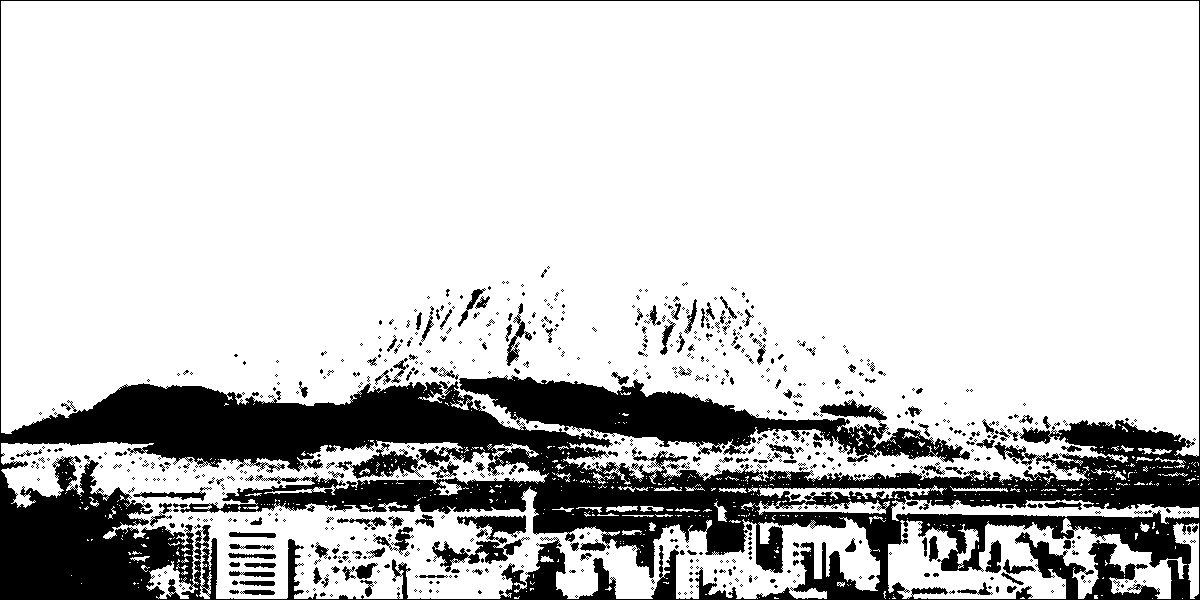
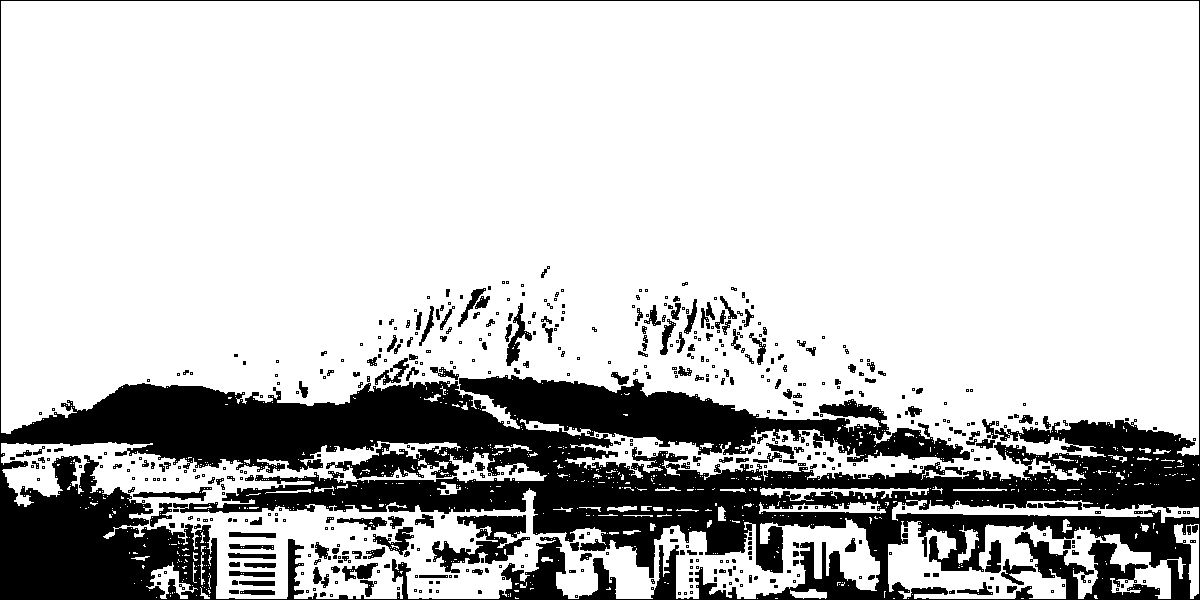
add

diff --git a/11/openingclosing.py b/11/openingclosing.py
@@ -3,20 +3,21 @@ import numpy as np
 
 #縮小
 def erosion(img):
-    #４近傍が0の場合に0に、それ以外は1にする
+    #8近傍が0の場合に0に、それ以外は1にする
     h, w = img.shape
     out = np.zeros((h, w), dtype=float)
     for y in range(1, h-1):
         for x in range(1, w-1):
-            if img[y-1, x] == 0 or img[y, x-1] == 0 or img[y, x+1] == 0 or img[y+1, x] == 0:
+            if img[y-1, x] == 0 or img[y, x-1] == 0 or img[y, x+1] == 0 or img[y+1, x] == 0 or img[y-1, x-1] == 0 or img[y-1, x+1] == 0 or img[y+1, x-1] == 0 or img[y+1, x+1] == 0:
                 out[y, x] = 0
             else:
                 out[y, x] = 1
     return out
 
+
 #膨張
 def dilation(img):
-    #４近傍が1の場合に1に、それ以外は0にする
+    #4近傍が1の場合に1に、それ以外は0にする
     h, w = img.shape
     out = np.zeros((h, w), dtype=float)
     for y in range(1, h-1):
@@ -26,6 +27,7 @@ def dilation(img):
             else:
                 out[y, x] = 0
     return out
+
 
 #開放処理(opening)
 def opening(img):
@@ -43,7 +45,7 @@ def closing(img):
 
 
 # 画像を読み込む
-img = cv2.imread("sakurajima.jpeg")
+img = cv2.imread("sample01.png")
 
 #画像の２値化
 gray = cv2.cvtColor(img, cv2.COLOR_BGR2GRAY)

diff --git a/11/erosiondilation.py b/11/erosiondilation.py
@@ -3,12 +3,12 @@ import numpy as np
 
 #縮小
 def erosion(img):
-    #４近傍が0の場合に0に、それ以外は1にする
+    #8近傍が0の場合に0に、それ以外は1にする
     h, w = img.shape
     out = np.zeros((h, w), dtype=float)
     for y in range(1, h-1):
         for x in range(1, w-1):
-            if img[y-1, x] == 0 or img[y, x-1] == 0 or img[y, x+1] == 0 or img[y+1, x] == 0:
+            if img[y-1, x] == 0 or img[y, x-1] == 0 or img[y, x+1] == 0 or img[y+1, x] == 0 or img[y-1, x-1] == 0 or img[y-1, x+1] == 0 or img[y+1, x-1] == 0 or img[y+1, x+1] == 0:
                 out[y, x] = 0
             else:
                 out[y, x] = 1
@@ -16,7 +16,7 @@ def erosion(img):
 
 #膨張
 def dilation(img):
-    #４近傍が1の場合に1に、それ以外は0にする
+    #4近傍が1の場合に1に、それ以外は0にする
     h, w = img.shape
     out = np.zeros((h, w), dtype=float)
     for y in range(1, h-1):
@@ -26,6 +26,8 @@ def dilation(img):
             else:
                 out[y, x] = 0
     return out
+
+
 
 
 # 画像を読み込む

diff --git a/11/11_sample04.py b/11/11_sample04.py
@@ -1,0 +1,38 @@
+
+# -*- coding: utf-8 -*-
+
+''' 
+
+'''
+
+import numpy as np
+import cv2
+
+  
+# メイン関数
+def main():
+    # 画像を読み込む
+    img = cv2.imread('sample01.png',0)
+    rows, cols = img.shape
+ 
+    th, bin_image = cv2.threshold(img, 0, 255, cv2.THRESH_BINARY+cv2.THRESH_OTSU)
+    rows, cols = bin_image.shape
+
+    kernel = np.ones((5,5),np.uint8)
+    dilation = cv2.dilate(bin_image,kernel,iterations = 1)
+    closing = cv2.erode(dilation,kernel,iterations = 1)
+    
+    cv2.namedWindow("original_image")   
+    cv2.namedWindow("binary_image")   
+    
+    cv2.namedWindow("closing")   
+
+    cv2.imshow("original_image", img)
+    cv2.imshow("binary_image", bin_image)
+    cv2.imshow("closing", closing)
+
+    cv2.waitKey(0)
+    cv2.destroyAllWindows()
+
+if __name__ == "__main__":
+    main()

diff --git a/11/11_sample03.py b/11/11_sample03.py
@@ -1,0 +1,38 @@
+
+# -*- coding: utf-8 -*-
+
+''' 
+
+'''
+
+import numpy as np
+import cv2
+
+  
+# メイン関数
+def main():
+    # 画像を読み込む
+    img = cv2.imread('sample01.png',0)
+    rows, cols = img.shape
+ 
+    th, bin_image = cv2.threshold(img, 0, 255, cv2.THRESH_BINARY+cv2.THRESH_OTSU)
+    rows, cols = bin_image.shape
+
+    kernel = np.ones((5,5),np.uint8)
+    erosion = cv2.erode(bin_image,kernel,iterations = 1)
+    opening = cv2.dilate(erosion,kernel,iterations = 1)
+    
+    cv2.namedWindow("original_image")   
+    cv2.namedWindow("binary_image")   
+    
+    cv2.namedWindow("opening")   
+
+    cv2.imshow("original_image", img)
+    cv2.imshow("binary_image", bin_image)
+    cv2.imshow("opening", opening)
+
+    cv2.waitKey(0)
+    cv2.destroyAllWindows()
+
+if __name__ == "__main__":
+    main()

diff --git a/11/11_sample02.py b/11/11_sample02.py
@@ -1,0 +1,38 @@
+
+# -*- coding: utf-8 -*-
+
+''' 
+
+'''
+
+import numpy as np
+import cv2
+
+  
+# メイン関数
+def main():
+    # 画像を読み込む
+    img = cv2.imread('sakurajima.jpeg',0)
+    # rows, cols = img.shape
+ 
+    th, bin_image = cv2.threshold(img, 0, 255, cv2.THRESH_BINARY+cv2.THRESH_OTSU)
+    # rows, cols = bin_image.shape
+    # bin_image = 255-bin_image
+    
+    kernel = np.ones((5,5),np.uint8)
+    dilation = cv2.dilate(bin_image,kernel,iterations = 1)
+    
+    cv2.namedWindow("original_image")   
+    cv2.namedWindow("binary_image")   
+    
+    cv2.namedWindow("dilation")   
+
+    cv2.imshow("original_image", img)
+    cv2.imshow("binary_image", bin_image)
+    cv2.imshow("dilation", dilation)
+
+    cv2.waitKey(0)
+    cv2.destroyAllWindows()
+
+if __name__ == "__main__":
+    main()

diff --git a/11/11_sample01.py b/11/11_sample01.py
@@ -1,0 +1,37 @@
+
+# -*- coding: utf-8 -*-
+
+''' 
+
+'''
+
+import numpy as np
+import cv2
+
+  
+# メイン関数
+def main():
+    # 画像を読み込む
+    img = cv2.imread('sakurajima.jpeg',0)
+    rows, cols = img.shape
+ 
+    th, bin_image = cv2.threshold(img, 0, 255, cv2.THRESH_BINARY+cv2.THRESH_OTSU)
+    rows, cols = bin_image.shape
+
+    kernel = np.ones((5,5),np.uint8)
+    erosion = cv2.erode(bin_image,kernel,iterations = 1)
+    
+    cv2.namedWindow("original_image")   
+    cv2.namedWindow("binary_image")   
+    
+    cv2.namedWindow("erosion")   
+
+    cv2.imshow("original_image", img)
+    cv2.imshow("binary_image", bin_image)
+    cv2.imshow("erosion", erosion)
+
+    cv2.waitKey(0)
+    cv2.destroyAllWindows()
+
+if __name__ == "__main__":
+    main()
